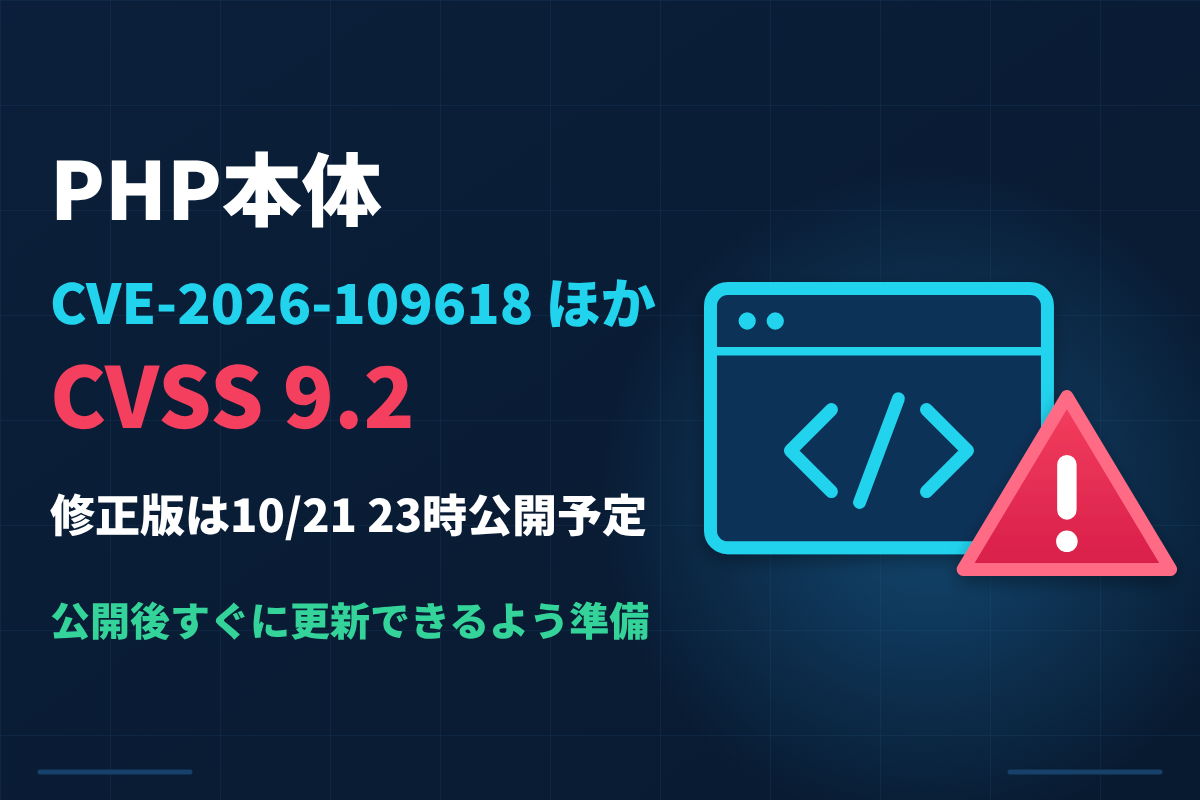
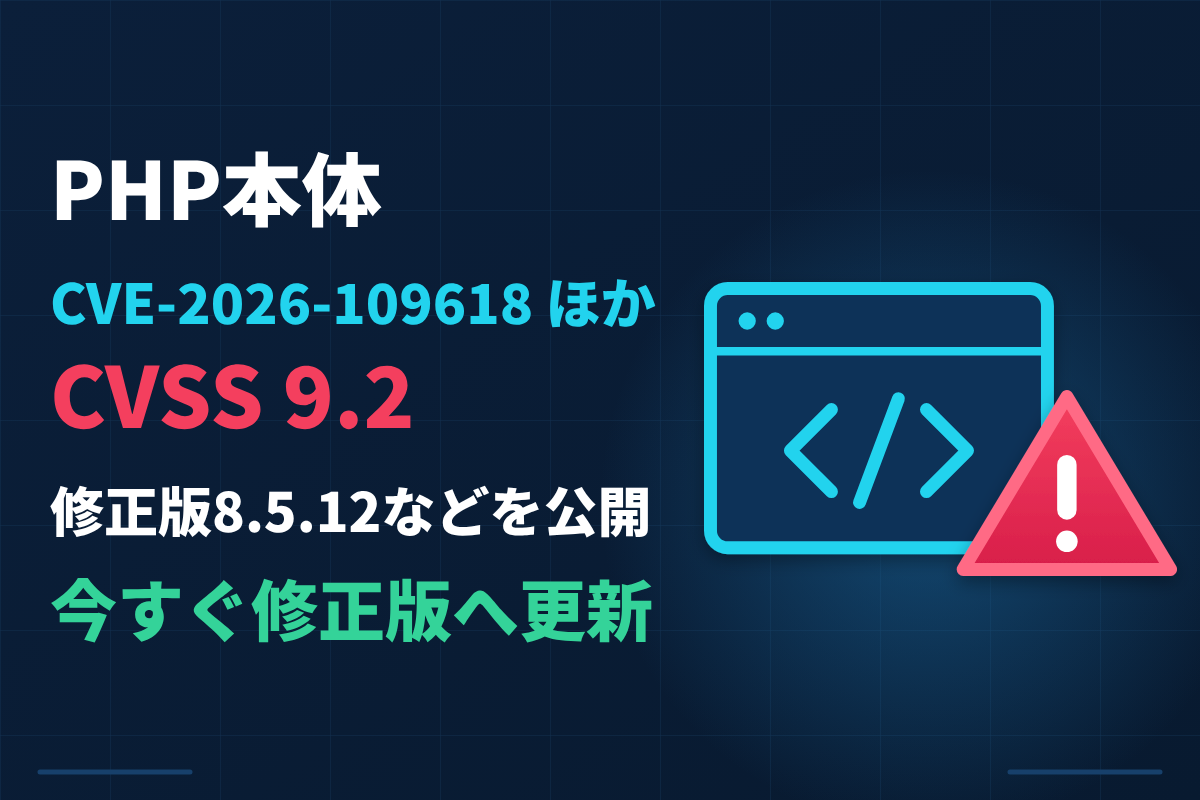
PHP CVE-2026-109618/109619記事を修正版公開後の内容に更新
Claude-Session: https://claude.ai/code/session_0185fVbyasf6nYUWKDF6VkCs

Changed region(s): [[0.0308, 0.5938, 0.555, 0.6875], [0.0308, 0.7188, 0.555, 0.8125]]

diff --git a/projects/cybernote-security-news/articles/php-cve-2026-109618-109619-critical-security-release.md b/projects/cybernote-security-news/articles/php-cve-2026-109618-109619-critical-security-release.md
@@ -1,40 +1,41 @@
 ---
-title: "【緊急】PHP本体に重大脆弱性2件、CVSS 9.2で10月21日23時に修正版公開へ"
+title: "【緊急】PHP本体の重大脆弱性2件、修正版8.5.12などを公開｜今すぐ更新を"
 slug: "php-cve-2026-109618-109619-critical-security-release"
 date: "2026-10-21"
 author: "CyberNote編集部"
-description: "PHP本体のCVE-2026-109618とCVE-2026-109619を解説。CVSS v4.0は9.2で、修正版は日本時間10月21日23時に公開予定。現時点で分かっていることと、今すぐ進めたい準備を整理します。"
-answer: "PHP本体の重大脆弱性2件はCVSS 9.2です。10月21日23時の修正版公開に備えてください。"
+description: "PHP本体のCVE-2026-109618とCVE-2026-109619（CVSS 9.2）の修正版8.5.12、8.4.27、8.3.36、8.2.35が公開されました。影響を受ける版、対象の実行環境、更新できない場合の緩和策を整理します。"
+answer: "PHPの重大脆弱性2件の修正版が公開されました。8.5.12などへ今すぐ更新してください。"
 cve: "CVE-2026-109618, CVE-2026-109619"
 faq:
-  - q: "PHPの今回の脆弱性はどのような問題ですか？"
-    a: "PHP本体の脆弱性2件で、CVSS v4.0の基本値はいずれも9.2です。CERT-EUは遠隔からのコード実行につながるおそれがあるとしていますが、技術的な詳細と影響を受ける版は修正版の公開時に発表されます。"
-  - q: "修正版はいつ公開されますか？"
-    a: "PHPプロジェクトは2026年10月21日14時（UTC）、日本時間では同日23時に公開するとしています。詳細の流出や実際の悪用が確認された場合は前倒しする可能性があるため、公式サイトの告知を確認してください。"
-  - q: "サポートが終了したPHPを使っている場合はどうすればよいですか？"
-    a: "公式にサポートされているのは8.2から8.5の4系統で、8.1以前には修正が提供されない可能性が高いと考えられます。対応版への移行を急ぎ、それまでは外部からのアクセス制限など公開範囲を絞る対策を検討してください。"
+  - q: "どのPHPの版が影響を受けますか？"
+    a: "PHPの公式アドバイザリでは、8.2.35、8.3.36、8.4.27、8.5.12より前の版が影響を受けるとされています。サポートが終了した8.1以前も、修正の提供対象外のまま危険な状態です。"
+  - q: "設定変更だけで防ぐことはできますか？"
+    a: "できません。PHPプロジェクトは更新が唯一の安全な選択肢としています。memory_limitやsession.upload_progress.enabledの設定変更は特定の攻撃経路を減らすだけで、環境を安全にするものではありません。"
+  - q: "PHP 8.1以前を使っている場合はどうすればよいですか？"
+    a: "PHPプロジェクトからの更新はありません。ディストリビューションやLTSベンダーの修正済みパッケージを確認するか、サポート中の版へ移行してください。7.4〜8.1向けには修正を当てたソースのブランチも用意されています。"
 sources:
-  - title: "Upcoming Critical PHP Security Release"
-    url: "https://www.php.net/archive/2026.php#2026-10-20-1"
+  - title: "Security Advisory: Critical remote code execution vulnerabilities"
+    url: "https://www.php.net/archive/2026.php#2026-10-21-5"
     publisher: "PHP.net"
-  - title: "[ANNOUNCE] Upcoming Critical PHP Security Release"
-    url: "https://discourse.thephp.foundation/t/announce-upcoming-critical-php-security-release/6251"
-    publisher: "The PHP Foundation"
+  - title: "RCE via OOM corruption (GHSA-w8hw-w9fx-j79w)"
+    url: "https://github.com/php/php-src/security/advisories/GHSA-w8hw-w9fx-j79w"
+    publisher: "PHP（GitHub Security Advisory）"
+  - title: "RCE via stale global state (GHSA-6wmf-4rv5-p3rp)"
+    url: "https://github.com/php/php-src/security/advisories/GHSA-6wmf-4rv5-p3rp"
+    publisher: "PHP（GitHub Security Advisory）"
+  - title: "PHP 8 ChangeLog"
+    url: "https://www.php.net/ChangeLog-8.php"
+    publisher: "PHP.net"
   - title: "Security Advisory 2026-018: Critical Vulnerabilities in PHP"
     url: "https://cert.europa.eu/publications/security-advisories/2026-018/"
     publisher: "CERT-EU"
-  - title: "Supported Versions"
-    url: "https://www.php.net/supported-versions.php"
-    publisher: "PHP.net"
 ---
 
-# 【緊急】PHP本体に重大脆弱性2件、CVSS 9.2で10月21日23時に修正版公開へ
+# 【緊急】PHP本体の重大脆弱性2件、修正版8.5.12などを公開｜今すぐ更新を
 
-PHP本体に重大な脆弱性が2件見つかり、[PHPプロジェクト](https://www.php.net/)のセキュリティチームが2026年10月20日、修正版の公開を事前に告知しました。公開予定は10月21日14時（UTC）、日本時間では同日23時です。
+[PHPプロジェクト](https://www.php.net/)は2026年10月21日、PHP本体の重大な脆弱性CVE-2026-109618とCVE-2026-109619を修正した版を公開しました。事前告知どおり、日本時間の同日23時の公開です。
 
-対象はCVE-2026-109618とCVE-2026-109619で、CVSS v4.0の基本値はいずれも9.2です。PHPの開発を支える[The PHP Foundation](https://thephp.foundation/)もXで告知を広めています。
-
-詳しい内容や影響を受ける版は、修正版と同時に公表されます。PHPで動くWebサイトやシステムの管理者は、すぐ更新できるよう準備を整えてください。
+2件はCVSS v4.0の基本値がいずれも9.2で、認証なしで遠隔からコードを実行されるおそれがあります。PHPプロジェクトは「更新が唯一の安全な選択肢」として、すべての利用者に直ちに更新するよう求めています。PHPの公式発表をもとに、影響を受ける版と実行環境、更新できない場合の対応を整理します。
 
 <!-- wp:group {"className":"is-style-information-box","layout":{"type":"constrained"}} -->
 <div class="wp-block-group is-style-information-box"><!-- wp:paragraph -->
@@ -45,35 +46,35 @@ PHP本体に重大な脆弱性が2件見つかり、[PHPプロジェクト](http
 
 ## 脆弱性の概要
 
-今回の告知は、修正版の公開前に脆弱性の存在と深刻度だけを先に知らせるものです。技術的な詳細はまだ伏せられていますが、2件とも深刻度は最も高い「Critical」とされており、影響の大きさがうかがえます。
+2件とも、Webリクエストの処理中に解放済みのメモリを使ってしまう「解放後使用」に分類される問題です。PHPで動く多くのWebサイトが対象になるため、影響は非常に大きいと考えられ、早急な対応が必要です。
 
-次の表は、PHPプロジェクトの告知と、EUの機関向けセキュリティ組織である[CERT-EU](https://cert.europa.eu/)の注意喚起をもとに、2026年10月21日時点で確認できた内容を整理したものです。公式に発表されていない項目は「未公表」と書きました。修正版の公開後に内容が変わる可能性があるため、最新の公式情報もあわせて確認してください。
+次の表は、PHPプロジェクトのセキュリティアドバイザリと、GitHub上で公開された2件の詳細情報（GHSA）をもとに、公開直後の内容をまとめたものです。悪用状況は公開時点の公式発表で確認できた範囲です。今後、公的機関の注意喚起や悪用の報告が出る可能性があるため、最新情報もあわせて確認してください。
 
 | 項目 | 内容 |
 |---|---|
 | CVE | CVE-2026-109618、CVE-2026-109619 |
-| 種類 | 未公表（遠隔コード実行のおそれ） |
-| 対象製品 | PHP本体 |
-| 影響を受ける版 | 未公表（修正版の公開時に発表予定） |
-| 修正版 | 10月21日23時（日本時間）公開予定 |
-| CVSS | 9.2（v4.0）。評価元はPHPセキュリティチーム |
-| 回避策 | 未公表 |
-| 悪用状況 | 確認した情報には悪用の記載なし。KEV未掲載 |
+| 種類 | 解放後使用（CWE-416）による遠隔コード実行 |
+| 対象製品 | PHP本体（Web向けの全実行環境） |
+| 影響を受ける版 | 8.2.35、8.3.36、8.4.27、8.5.12より前 |
+| 修正版 | 8.2.35、8.3.36、8.4.27、8.5.12 |
+| CVSS | 9.2（v4.0、評価元はPHPセキュリティチーム） |
+| 回避策 | なし（設定で一部緩和のみ） |
+| 悪用状況 | 実環境での悪用の記載なし。KEV未掲載 |
 
-CERT-EUは、2件が認証なしで遠隔からコードを実行される可能性を示すスコアだと説明しています。修正版が出たらすぐ適用できるよう備え、難しい場合はインターネットに公開しているアプリケーションの切り離しも検討するよう求めています。なお、詳細の流出や悪用が確認された場合、公開が早まる可能性があります。
+CVE-2026-109618はメモリ不足時の中断処理、CVE-2026-109619は前のリクエストの状態が残る問題が原因です。対象はPHP-FPM、mod_php、php-cgi、FrankenPHP、LiteSpeedで、mod_phpでは標準設定のまま、アプリの処理前に攻撃が成立すると実証されています。
+
+## 更新できない場合の緩和策
+
+PHPプロジェクトは更新までのつなぎとして、CVE-2026-109618にはmemory_limitを-1にする方法、CVE-2026-109619にはsession.upload_progress.enabledを0にしてワーカーを再起動する方法を挙げています。ただし安全を保証する策ではありません。
 
 ## サポート終了版を使う場合の注意
 
-PHPの公式サイトによると、現在サポートされているのは8.2〜8.5の4系統で、8.1以前には修正が提供されない可能性が高いと考えられます。CERT-EUはPHP 5以降の全版が影響を受ける可能性に触れており、8.2も2026年12月31日にサポートが終わるため、移行計画が欠かせません。
+PHP 8.1以前には、PHPプロジェクトからの更新はありません。配布元やLTSベンダーの修正版を確認し、なければサポート中の版へ移行してください。7.4〜8.1向けには修正済みソースのブランチもあり、修正前の情報は[続報記事](https://www.cybernote.click/2026/10/21/php2shell-cve-2026-109618-109619-followup-poc-status/)で整理しています。
 
-## 今すぐ進めたい3つの準備
+## 利用者が今すぐ確認したいこと
 
-修正版の公開までの時間は限られています。CERT-EUは公式発表の前に情報が外部へ出回ったことにも触れており、修正版の公開後すぐに更新できるよう、次の3つの準備を今のうちに進めておくことをおすすめします。
-
-1つ目は、CMSや業務システムを含め、自社で動くPHPとその版の洗い出しです。2つ目は更新手順と担当者の確認で、レンタルサーバーや[WordPress](https://www.cybernote.click/2026/08/27/wordpress-cve-2026-65640-author-rce-update/)を使う場合は事業者の案内に注意します。
-
-3つ目は、サポート終了版の移行と、それまでのアクセス制限です。[NGINX](https://www.cybernote.click/2026/10/20/nginx-cve-2026-15176-93479-97205-heap-overflow-update/)や[Apache Tomcat](https://www.cybernote.click/2026/08/29/apache-tomcat-cve-2026-65182-security-constraint-bypass/)など周辺ソフトの更新状況も確認しましょう。
+[WordPress](https://www.cybernote.click/2026/08/27/wordpress-cve-2026-65640-author-rce-update/)などPHPで動くサイトの管理者は、PHPの版を確認して修正版へ更新し、レンタルサーバーでは事業者の対応状況も確認しましょう。[NGINX](https://www.cybernote.click/2026/10/20/nginx-cve-2026-15176-93479-97205-heap-overflow-update/)とPHP-FPMの構成では、更新後にワーカーの再起動も必要です。
 
 ## まとめ
 
-PHP本体のCVE-2026-109618とCVE-2026-109619は、CVSS v4.0の基本値がいずれも9.2の重大な脆弱性です。PHPプロジェクトは日本時間2026年10月21日23時に修正版を公開するとしており、詳細や影響を受ける版もその時点で発表されます。CERT-EUは遠隔からのコード実行のおそれを指摘し、すぐに適用できるよう備えることを求めています。今のうちに自社のPHPと版を洗い出し、更新の手順と担当者を決めておきましょう。サポート終了版を使う環境は、移行とアクセス制限を急いでください。
+PHPプロジェクトは10月21日、CVE-2026-109618とCVE-2026-109619を修正した8.5.12、8.4.27、8.3.36、8.2.35を公開しました。2件はCVSS 9.2で、認証なしの遠隔コード実行につながるおそれがあり、mod_phpでは攻撃の成立が実証されています。設定による緩和策はあるものの、更新が唯一の安全な選択肢です。自社で動くPHPの版を確認し、今すぐ修正版へ更新してください。8.1以前を使う環境は、ベンダーの修正版の確認とサポート中の版への移行を急ぎましょう。
